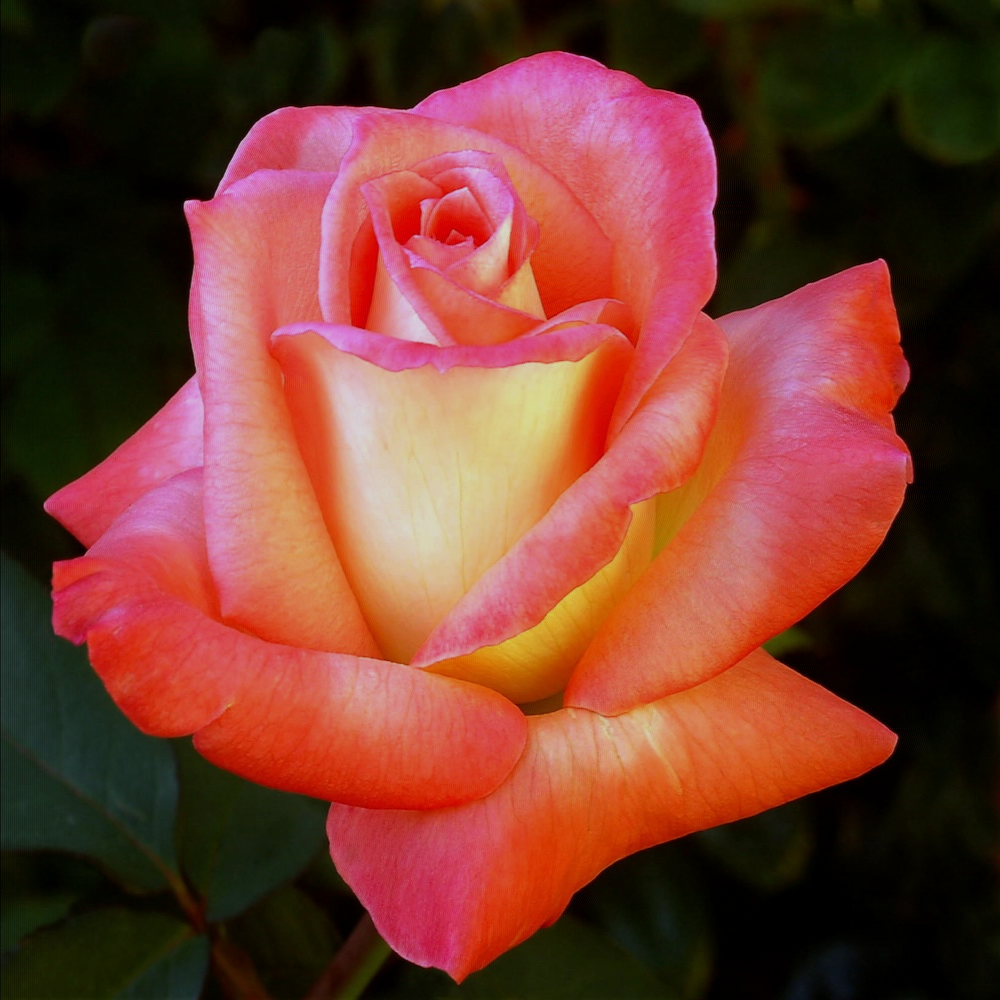
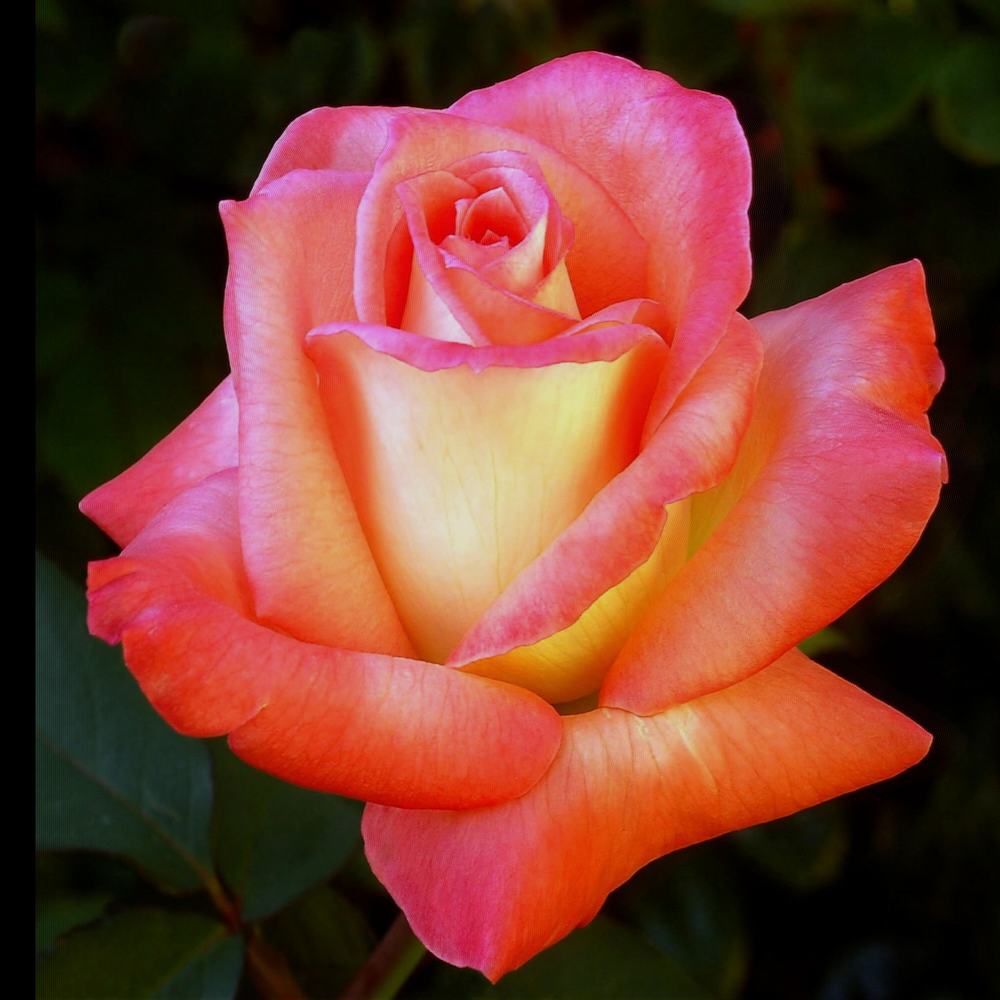
modified range of resonance because resonance = 0 is broken

diff --git a/src/parameters.rs b/src/parameters.rs
@@ -205,7 +205,7 @@ impl Parameters {
                 delay_feedback : Slider::new("Feedback", 0, 1000, 0, 1),
                 continuous : Toggle::new("Continuous", false),
                 filter_cutoff : Slider::new("Cutoff", 20, 100000, 100000, 1000),
-                filter_resonance : Slider::new("Resonance", 0, 2000, 1, 1),
+                filter_resonance : Slider::new("Resonance", 1, 2000, 1, 1),
                 parameter_amount: 0,
 
         };